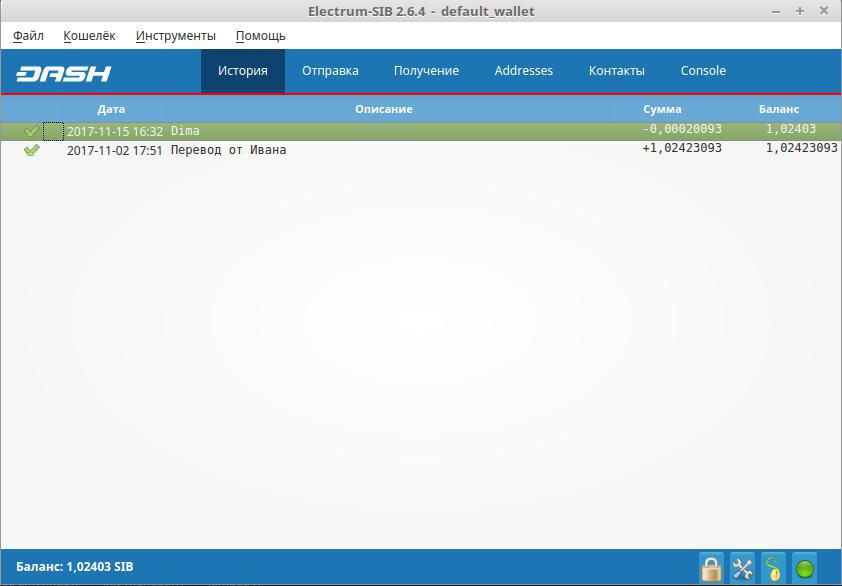
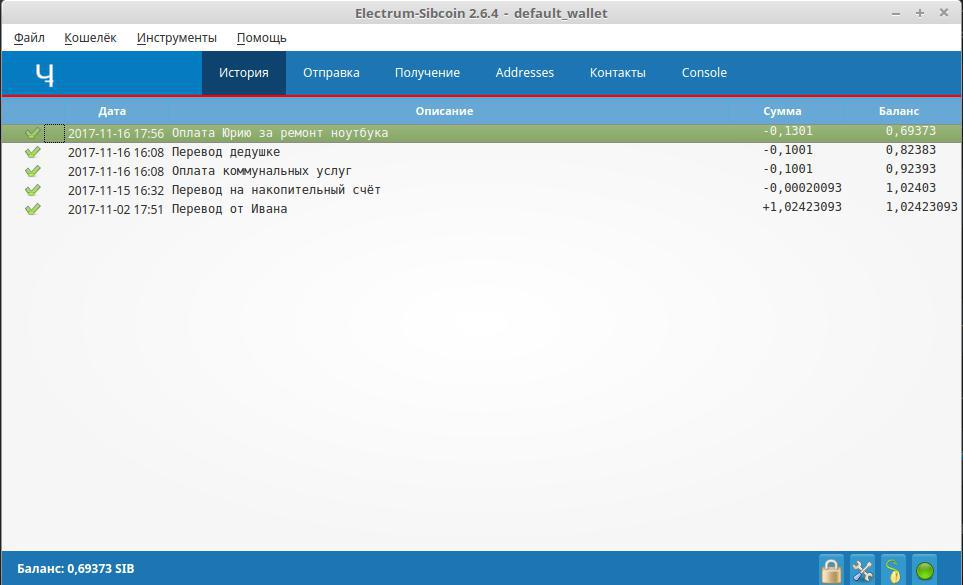
Update navlogo, names and change readme to markdown syntax

Changed region(s): [[0.0, 0.0, 1.0, 1.0]]

diff --git a/gui/qt/main_window.py b/gui/qt/main_window.py
@@ -325,7 +325,7 @@ class ElectrumWindow(QMainWindow, MessageBoxMixin, PrintError):
         run_hook('load_wallet', wallet, self)
 
     def watching_only_changed(self):
-        title = 'Electrum-SIB %s  -  %s' % (self.wallet.electrum_version,
+        title = 'Electrum-Sibcoin %s  -  %s' % (self.wallet.electrum_version,
                                         self.wallet.basename())
         if self.wallet.is_watching_only():
             self.warn_if_watching_only()
@@ -375,7 +375,7 @@ class ElectrumWindow(QMainWindow, MessageBoxMixin, PrintError):
                 shutil.copy2(path, new_path)
                 self.show_message(_("A copy of your wallet file was created in")+" '%s'" % str(new_path), title=_("Wallet backup created"))
             except (IOError, os.error), reason:
-                self.show_critical(_("Electrum-SIB was unable to copy your wallet file to the specified location.") + "\n" + str(reason), title=_("Unable to create backup"))
+                self.show_critical(_("Electrum-Sibcoin was unable to copy your wallet file to the specified location.") + "\n" + str(reason), title=_("Unable to create backup"))
 
     def update_recently_visited(self, filename):
         recent = self.config.get('recently_open', [])
@@ -453,7 +453,7 @@ class ElectrumWindow(QMainWindow, MessageBoxMixin, PrintError):
         tools_menu = menubar.addMenu(_("&Tools"))
 
         # Settings / Preferences are all reserved keywords in OSX using this as work around
-        tools_menu.addAction(_("Electrum-SIB preferences") if sys.platform == 'darwin' else _("Preferences"), self.settings_dialog)
+        tools_menu.addAction(_("Electrum-Sibcoin preferences") if sys.platform == 'darwin' else _("Preferences"), self.settings_dialog)
         tools_menu.addAction(_("&Network"), self.run_network_dialog)
         tools_menu.addAction(_("&Plugins"), self.plugins_dialog)
         tools_menu.addSeparator()
@@ -488,17 +488,17 @@ class ElectrumWindow(QMainWindow, MessageBoxMixin, PrintError):
             self.pay_to_URI('sib:%s?message=donation for %s'%(d, host))
 
     def show_about(self):
-        QMessageBox.about(self, "Electrum-SIB",
-            _("Version")+" %s" % (self.wallet.electrum_version) + "\n\n" + _("Electrum-SIB's focus is speed, with low resource usage and simplifying Sibcoin. You do not need to perform regular backups, because your wallet can be recovered from a secret phrase that you can memorize or write on paper. Startup times are instant because it operates in conjunction with high-performance servers that handle the most complicated parts of the Sibcoin system."))
+        QMessageBox.about(self, "Electrum-Sibcoin",
+            _("Version")+" %s" % (self.wallet.electrum_version) + "\n\n" + _("Electrum-Sibcoin's focus is speed, with low resource usage and simplifying Sibcoin. You do not need to perform regular backups, because your wallet can be recovered from a secret phrase that you can memorize or write on paper. Startup times are instant because it operates in conjunction with high-performance servers that handle the most complicated parts of the Sibcoin system."))
 
     def show_report_bug(self):
         msg = ' '.join([
             _("Please report any bugs as issues on github:<br/>"),
             "<a href=\"https://github.com/sibpay/electrum-sib/issues\">https://github.com/sibpay/electrum-sib/issues</a><br/><br/>",
-            _("Before reporting a bug, upgrade to the most recent version of Electrum-SIB (latest release or git HEAD), and include the version number in your report."),
+            _("Before reporting a bug, upgrade to the most recent version of Electrum-Sibcoin (latest release or git HEAD), and include the version number in your report."),
             _("Try to explain not only what the bug is, but how it occurs.")
          ])
-        self.show_message(msg, title="Electrum-SIB - " + _("Reporting Bugs"))
+        self.show_message(msg, title="Electrum-Sibcoin - " + _("Reporting Bugs"))
 
     def notify_transactions(self):
         if not self.network or not self.network.is_connected():
@@ -526,7 +526,7 @@ class ElectrumWindow(QMainWindow, MessageBoxMixin, PrintError):
 
     def notify(self, message):
         if self.tray:
-            self.tray.showMessage("Electrum-SIB", message, QSystemTrayIcon.Information, 20000)
+            self.tray.showMessage("Electrum-Sibcoin", message, QSystemTrayIcon.Information, 20000)
 
 
 
@@ -691,7 +691,7 @@ class ElectrumWindow(QMainWindow, MessageBoxMixin, PrintError):
             _('Expiration date of your request.'),
             _('This information is seen by the recipient if you send them a signed payment request.'),
             _('Expired requests have to be deleted manually from your list, in order to free the corresponding Sibcoin addresses.'),
-            _('The Sibcoin address never expires and will always be part of this Electrum-SIB wallet.'),
+            _('The Sibcoin address never expires and will always be part of this Electrum-Sibcoin wallet.'),
         ])
         grid.addWidget(HelpLabel(_('Request expires'), msg), 3, 0)
         grid.addWidget(self.expires_combo, 3, 1)
@@ -2288,7 +2288,7 @@ class ElectrumWindow(QMainWindow, MessageBoxMixin, PrintError):
             return Transaction(tx)
         except:
             traceback.print_exc(file=sys.stdout)
-            self.show_critical(_("Electrum-SIB was unable to parse your transaction"))
+            self.show_critical(_("Electrum-Sibcoin was unable to parse your transaction"))
             return
 
     def read_tx_from_qrcode(self):
@@ -2323,7 +2323,7 @@ class ElectrumWindow(QMainWindow, MessageBoxMixin, PrintError):
             with open(fileName, "r") as f:
                 file_content = f.read()
         except (ValueError, IOError, os.error) as reason:
-            self.show_critical(_("Electrum-SIB was unable to open your transaction file") + "\n" + str(reason), title=_("Unable to read file or no transaction found"))
+            self.show_critical(_("Electrum-Sibcoin was unable to open your transaction file") + "\n" + str(reason), title=_("Unable to read file or no transaction found"))
         return self.tx_from_text(file_content)
 
     def do_process_from_text(self):
@@ -2420,7 +2420,7 @@ class ElectrumWindow(QMainWindow, MessageBoxMixin, PrintError):
             self.do_export_privkeys(filename, private_keys, csv_button.isChecked())
         except (IOError, os.error) as reason:
             txt = "\n".join([
-                _("Electrum-SIB was unable to produce a private key-export."),
+                _("Electrum-Sibcoin was unable to produce a private key-export."),
                 str(reason)
             ])
             self.show_critical(txt, title=_("Unable to create csv"))
@@ -2455,7 +2455,7 @@ class ElectrumWindow(QMainWindow, MessageBoxMixin, PrintError):
                 self.wallet.set_label(key, value)
             self.show_message(_("Your labels were imported from") + " '%s'" % str(labelsFile))
         except (IOError, os.error) as reason:
-            self.show_critical(_("Electrum-SIB was unable to import your labels.") + "\n" + str(reason))
+            self.show_critical(_("Electrum-Sibcoin was unable to import your labels.") + "\n" + str(reason))
 
 
     def do_export_labels(self):
@@ -2467,7 +2467,7 @@ class ElectrumWindow(QMainWindow, MessageBoxMixin, PrintError):
                     json.dump(labels, f, indent=4, sort_keys=True)
                 self.show_message(_("Your labels where exported to") + " '%s'" % str(fileName))
         except (IOError, os.error), reason:
-            self.show_critical(_("Electrum-SIB was unable to export your labels.") + "\n" + str(reason))
+            self.show_critical(_("Electrum-Sibcoin was unable to export your labels.") + "\n" + str(reason))
 
 
     def export_history_dialog(self):
@@ -2491,7 +2491,7 @@ class ElectrumWindow(QMainWindow, MessageBoxMixin, PrintError):
         try:
             self.do_export_history(self.wallet, filename, csv_button.isChecked())
         except (IOError, os.error), reason:
-            export_error_label = _("Electrum-SIB was unable to produce a transaction export.")
+            export_error_label = _("Electrum-Sibcoin was unable to produce a transaction export.")
             self.show_critical(export_error_label + "\n" + str(reason), title=_("Unable to export history"))
             return
         self.show_message(_("Your wallet history has been successfully exported."))
@@ -2917,11 +2917,11 @@ class ElectrumWindow(QMainWindow, MessageBoxMixin, PrintError):
 
         run_hook('close_settings_dialog')
         if self.need_restart:
-            self.show_warning(_('Please restart Electrum-SIB to activate the new GUI settings'), title=_('Success'))
+            self.show_warning(_('Please restart Electrum-Sibcoin to activate the new GUI settings'), title=_('Success'))
 
     def run_network_dialog(self):
         if not self.network:
-            self.show_warning(_('You are using Electrum-SIB in offline mode; restart Electrum-SIB if you want to get connected'), title=_('Offline'))
+            self.show_warning(_('You are using Electrum-Sibcoin in offline mode; restart Electrum-Sibcoin if you want to get connected'), title=_('Offline'))
             return
         NetworkDialog(self.wallet.network, self.config, self).do_exec()
 
@@ -2949,7 +2949,7 @@ class ElectrumWindow(QMainWindow, MessageBoxMixin, PrintError):
         self.gui_object.close_window(self)
 
     def plugins_dialog(self):
-        self.pluginsdialog = d = WindowModalDialog(self, _('Electrum-SIB Plugins'))
+        self.pluginsdialog = d = WindowModalDialog(self, _('Electrum-Sibcoin Plugins'))
 
         plugins = self.gui_object.plugins
 

diff --git a/gui/qt/network_dialog.py b/gui/qt/network_dialog.py
@@ -83,8 +83,8 @@ class NetworkChoiceLayout(object):
         hbox.addWidget(l)
         hbox.addWidget(QLabel(status))
         hbox.addStretch(50)
-        msg = _("Electrum-SIB sends your wallet addresses to a single server, in order to receive your transaction history.") + "\n\n" \
-            + _("In addition, Electrum-SIB connects to several nodes in order to download block headers and find out the longest blockchain.") + " " \
+        msg = _("Electrum-Sibcoin sends your wallet addresses to a single server, in order to receive your transaction history.") + "\n\n" \
+            + _("In addition, Electrum-Sibcoin connects to several nodes in order to download block headers and find out the longest blockchain.") + " " \
             + _("This blockchain is used to verify the transactions sent by the address server.")
         hbox.addWidget(HelpButton(msg))
         vbox.addLayout(hbox)
@@ -116,8 +116,8 @@ class NetworkChoiceLayout(object):
         self.autoconnect_cb.setChecked(auto_connect)
         grid.addWidget(self.autoconnect_cb, 1, 1, 1, 3)
         self.autoconnect_cb.setEnabled(self.config.is_modifiable('auto_connect'))
-        msg = _("If auto-connect is enabled, Electrum-SIB will always use a server that is on the longest blockchain.") + "\n" \
-            + _("If it is disabled, Electrum-SIB will warn you if your server is lagging.")
+        msg = _("If auto-connect is enabled, Electrum-Sibcoin will always use a server that is on the longest blockchain.") + "\n" \
+            + _("If it is disabled, Electrum-Sibcoin will warn you if your server is lagging.")
         self.autoconnect_cb.setToolTip(msg)
 
         label = _('Active Servers') if network.is_connected() else _('Default Servers')

diff --git a/plugins/trezor/qt_generic.py b/plugins/trezor/qt_generic.py
@@ -18,7 +18,7 @@ PASSPHRASE_HELP_SHORT =_(
     "Passphrases allow you to access new wallets, each "
     "hidden behind a particular case-sensitive passphrase.")
 PASSPHRASE_HELP = PASSPHRASE_HELP_SHORT + "  " + _(
-    "You need to create a separate Electrum-SIB wallet for each passphrase "
+    "You need to create a separate Electrum-Sibcoin wallet for each passphrase "
     "you use as they each generate different addresses.  Changing "
     "your passphrase does not lose other wallets, each is still "
     "accessible behind its own passphrase.")
@@ -408,13 +408,13 @@ class SettingsDialog(WindowModalDialog):
             currently_enabled = self.features.passphrase_protection
             if currently_enabled:
                 msg = _("After disabling passphrases, you can only pair this "
-                        "Electrum-SIB wallet if it had an empty passphrase.  "
+                        "Electrum-Sibcoin wallet if it had an empty passphrase.  "
                         "If its passphrase was not empty, you will need to "
                         "create a new wallet with the install wizard.  You "
                         "can use this wallet again at any time by re-enabling "
                         "passphrases and entering its passphrase.")
             else:
-                msg = _("Your current Electrum-SIB wallet can only be used with "
+                msg = _("Your current Electrum-Sibcoin wallet can only be used with "
                         "an empty passphrase.  You must create a separate "
                         "wallet with the install wizard for other passphrases "
                         "as each one generates a new set of addresses.")

diff --git a/gui/qt/__init__.py b/gui/qt/__init__.py
@@ -95,7 +95,7 @@ class ElectrumGui:
         # init tray
         self.dark_icon = self.config.get("dark_icon", False)
         self.tray = QSystemTrayIcon(self.tray_icon(), None)
-        self.tray.setToolTip('Electrum-SIB')
+        self.tray.setToolTip('Electrum-Sibcoin')
         self.tray.activated.connect(self.tray_activated)
         self.build_tray_menu()
         self.tray.show()
@@ -112,7 +112,7 @@ class ElectrumGui:
             submenu.addAction(_("Close"), window.close)
         m.addAction(_("Dark/Light"), self.toggle_tray_icon)
         m.addSeparator()
-        m.addAction(_("Exit Electrum-SIB"), self.close)
+        m.addAction(_("Exit Electrum-Sibcoin"), self.close)
         self.tray.setContextMenu(m)
 
     def tray_icon(self):

diff --git a/lib/util.py b/lib/util.py
@@ -277,9 +277,9 @@ def user_dir():
     if "HOME" in os.environ:
         return os.path.join(os.environ["HOME"], ".electrum-sib")
     elif "APPDATA" in os.environ:
-        return os.path.join(os.environ["APPDATA"], "Electrum-SIB")
+        return os.path.join(os.environ["APPDATA"], "Electrum-Sibcoin")
     elif "LOCALAPPDATA" in os.environ:
-        return os.path.join(os.environ["LOCALAPPDATA"], "Electrum-SIB")
+        return os.path.join(os.environ["LOCALAPPDATA"], "Electrum-Sibcoin")
     elif 'ANDROID_DATA' in os.environ:
         return android_check_data_dir()
     else:

diff --git a/plugins/trezor/plugin.py b/plugins/trezor/plugin.py
@@ -32,7 +32,7 @@ class TrezorCompatibleWallet(BIP44_HW_Wallet):
         return EncodeBase58Check(xpub)
 
     def decrypt_message(self, pubkey, message, password):
-        raise RuntimeError(_('Electrum-SIB and %s encryption and decryption are currently incompatible') % self.device)
+        raise RuntimeError(_('Electrum-Sibcoin and %s encryption and decryption are currently incompatible') % self.device)
         address = public_key_to_bc_address(pubkey.decode('hex'))
         client = self.get_client()
         address_path = self.address_id(address)

diff --git a/setup.py b/setup.py
@@ -12,7 +12,7 @@ import argparse
 version = imp.load_source('version', 'lib/version.py')
 
 if sys.version_info[:3] < (2, 7, 0):
-    sys.exit("Error: Electrum-SIB requires Python version >= 2.7.0...")
+    sys.exit("Error: Electrum-Sibcoin requires Python version >= 2.7.0...")
 
 data_files = []
 
@@ -33,7 +33,7 @@ if platform.system() in ['Linux', 'FreeBSD', 'DragonFly']:
     ]
 
 setup(
-    name="Electrum-SIB",
+    name="Electrum-Sibcoin",
     version=version.ELECTRUM_VERSION,
     install_requires=[
         'slowaes',

diff --git a/lib/wizard.py b/lib/wizard.py
@@ -29,7 +29,7 @@ from util import PrintError
 from wallet import Wallet
 from i18n import _
 
-MSG_GENERATING_WAIT = _("Electrum-SIB is generating your addresses, please wait...")
+MSG_GENERATING_WAIT = _("Electrum-Sibcoin is generating your addresses, please wait...")
 MSG_ENTER_ANYTHING = _("Please enter a seed phrase, a master key, a list of "
                        "Sibcoin addresses, or a list of private keys")
 MSG_ENTER_SEED_OR_MPK = _("Please enter a seed phrase or a master key (xpub or xprv):")

diff --git a/plugins/labels/__init__.py b/plugins/labels/__init__.py
@@ -2,7 +2,7 @@ from electrum_sib.i18n import _
 
 fullname = _('LabelSync')
 description = ' '.join([
-    _("Save your wallet labels on a remote server, and synchronize them across multiple devices where you use Electrum-SIB."),
+    _("Save your wallet labels on a remote server, and synchronize them across multiple devices where you use Electrum-Sibcoin."),
     _("Labels, transactions IDs and addresses are encrypted before they are sent to the remote server.")
 ])
 available_for = ['qt', 'kivy']

diff --git a/gui/qt/seed_dialog.py b/gui/qt/seed_dialog.py
@@ -40,7 +40,7 @@ def icon_filename(sid):
 
 class SeedDialog(WindowModalDialog):
     def __init__(self, parent, seed, imported_keys):
-        WindowModalDialog.__init__(self, parent, ('Electrum-SIB - ' + _('Seed')))
+        WindowModalDialog.__init__(self, parent, ('Electrum-Sibcoin - ' + _('Seed')))
         self.setMinimumWidth(400)
         vbox = QVBoxLayout(self)
         vbox.addLayout(SeedWarningLayout(seed).layout())

diff --git a/gui/qt/installwizard.py b/gui/qt/installwizard.py
@@ -68,7 +68,7 @@ class InstallWizard(QDialog, MessageBoxMixin, WizardBase):
 
     def __init__(self, config, app, plugins):
         QDialog.__init__(self, None)
-        self.setWindowTitle('Electrum-SIB  -  ' + _('Install Wizard'))
+        self.setWindowTitle('Electrum-Sibcoin  -  ' + _('Install Wizard'))
         self.app = app
         self.config = config
         # Set for base base class

diff --git a/gui/qt/qrwindow.py b/gui/qt/qrwindow.py
@@ -50,7 +50,7 @@ class QR_Window(QWidget):
     def __init__(self, win):
         QWidget.__init__(self)
         self.win = win
-        self.setWindowTitle('Electrum-SIB - '+_('Payment Request'))
+        self.setWindowTitle('Electrum-Sibcoin - '+_('Payment Request'))
         self.setMinimumSize(800, 250)
         self.address = ''
         self.label = ''
